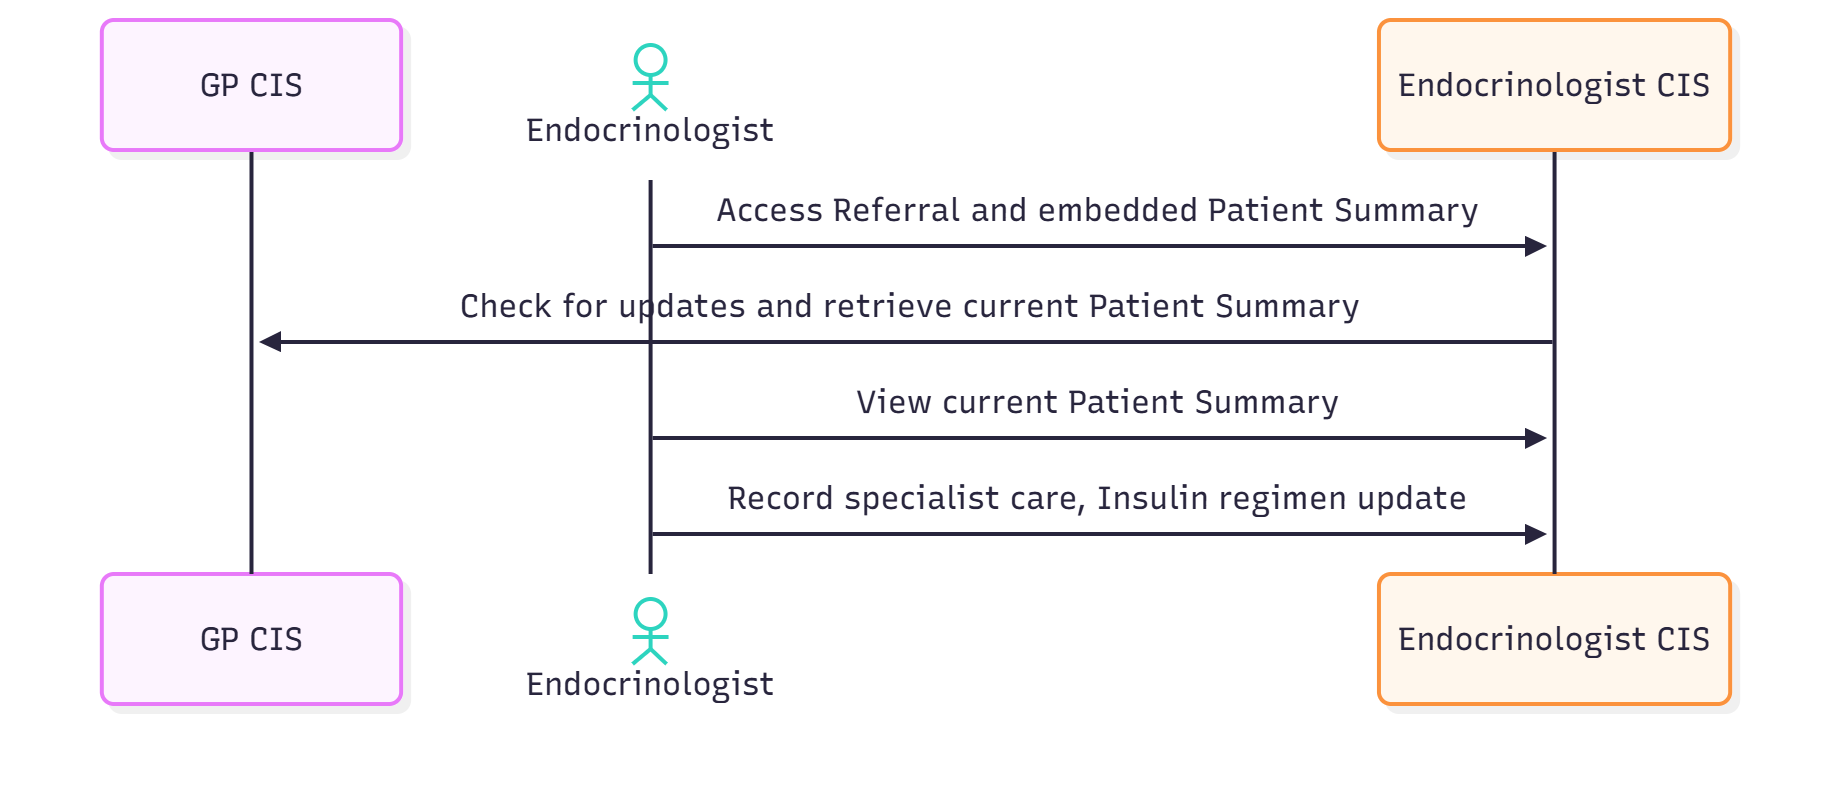
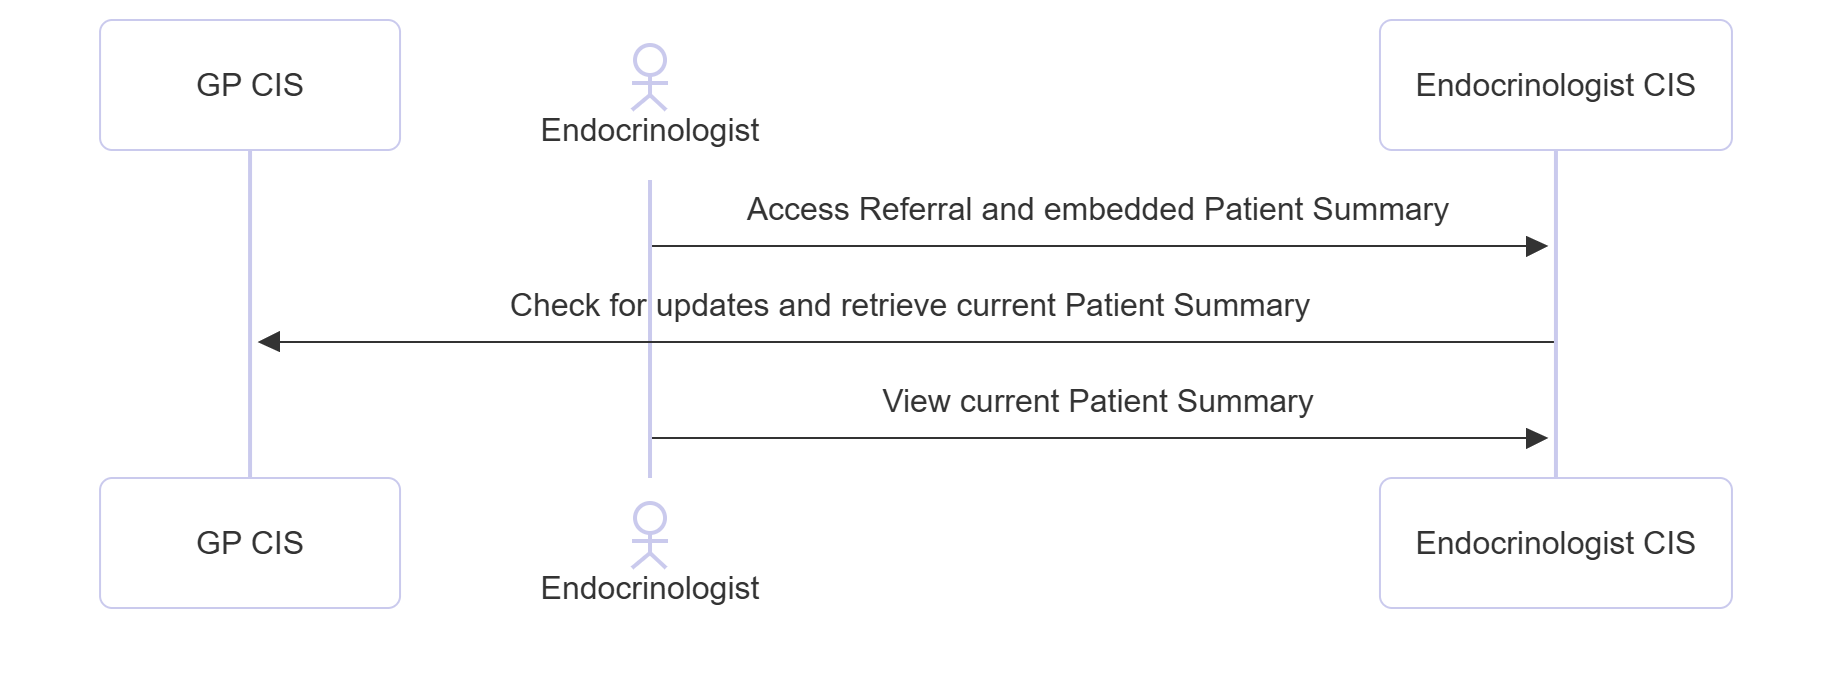
simplified sequence

diff --git a/input/pagecontent/uc-referral.md b/input/pagecontent/uc-referral.md
@@ -49,10 +49,10 @@ This use case demonstrates use of patient summary during step 4. Endocrinologist
 
 ### Flow
 
-1. Dr Cruickshank opens the referral in their CIS and accesses and reviews the embedded patient summary.
-1. The CIS alerts that a more recent patient summary is available.
-1. Dr Cruickshank accesses the more recent patient summary, comparing the embedded patient summary to the more recent patient summary, and verifies consistency in medications and medical history.
-1. Dr Cruickshank notes updated clinical information, including changes to Joyce’s insulin regimen.
+1. Dr Cruickshank opens the referral in the Endocrinologist CIS and views embedded referral patient summary.
+1. The Endocrinologist CIS detects and retrieves a current patient summary from the GP CIS.
+1. Dr Cruickshank views the current retrieved patient summary.
+1. Dr Cruickshank uses the updated patient summary content, and records the consultation including changes to Joyce’s insulin regimen.
 
 #### Sequence Diagram
 <div> 

diff --git a/input/pagecontent/uc-interstate.md b/input/pagecontent/uc-interstate.md
@@ -48,9 +48,9 @@ This use case demonstrates use of patient summary during step 5. Patient Summary
 1. Resulting updates may be communicated back to Dr Lowe and Jeramy to maintain continuity of care.
 
 ### Flow
-1. Dr Samuels’ CIS scans the QR code and accesses the patient summary via the Smart Health Link.
-1. Dr Samuels reviews the summary, which may include medications, problems, allergies, immunisations, observations, and recent care events.
-1. The summary supports clinical decision-making during the consultation.
+1. Dr Samuels’ CIS scans the QR code to gain access to the patient summary via the Smart Health Link.
+1. The patient summary is retrieved from a patient summary host system indicated by the Smart Health Link. 
+1. Dr Samuels views the patient summary in the consultation.
 
 #### Sequence Diagram
 <div> 
